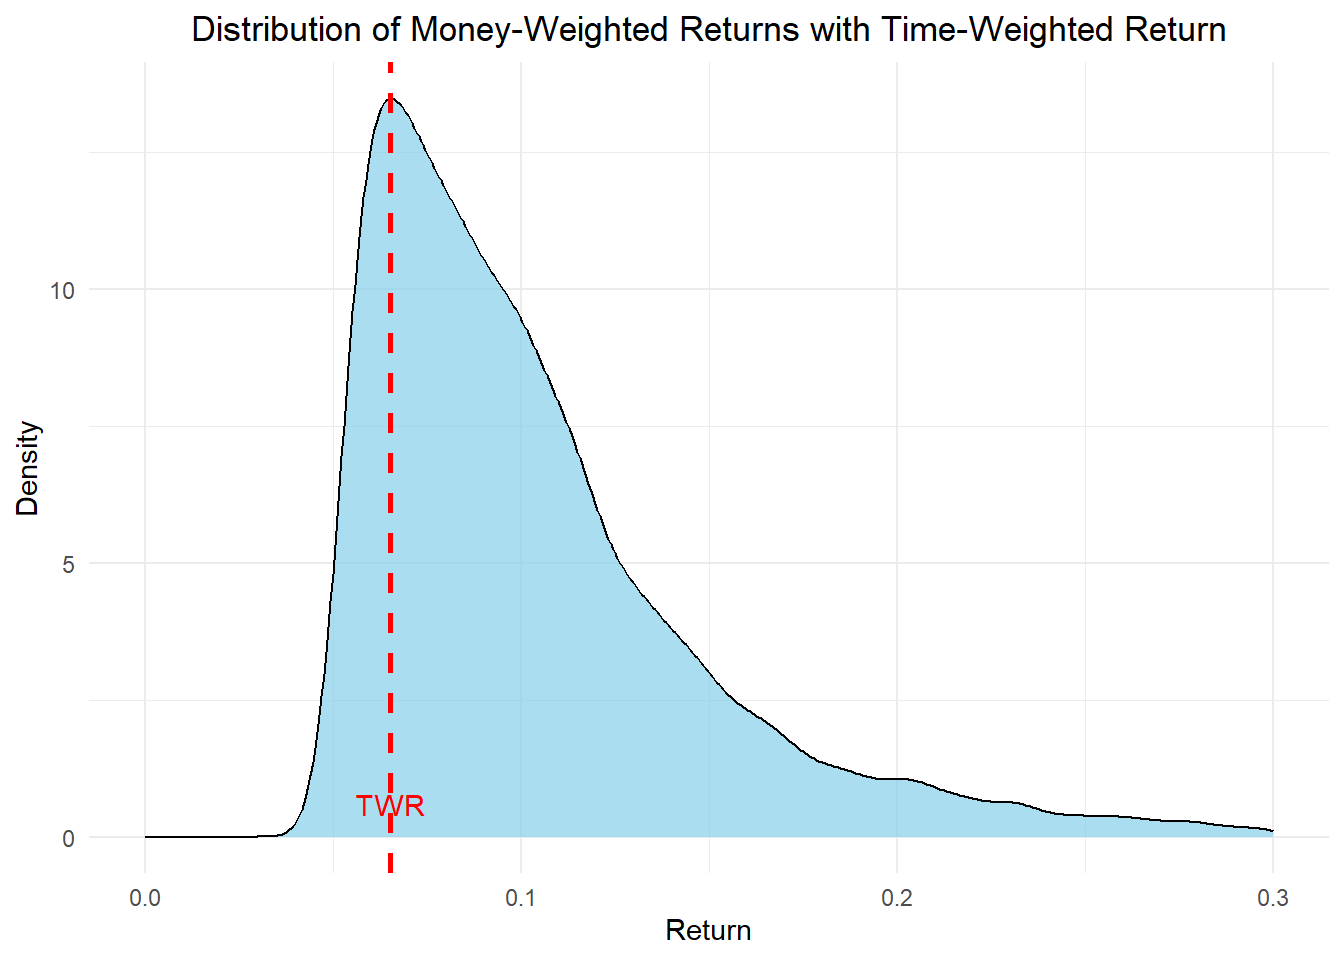
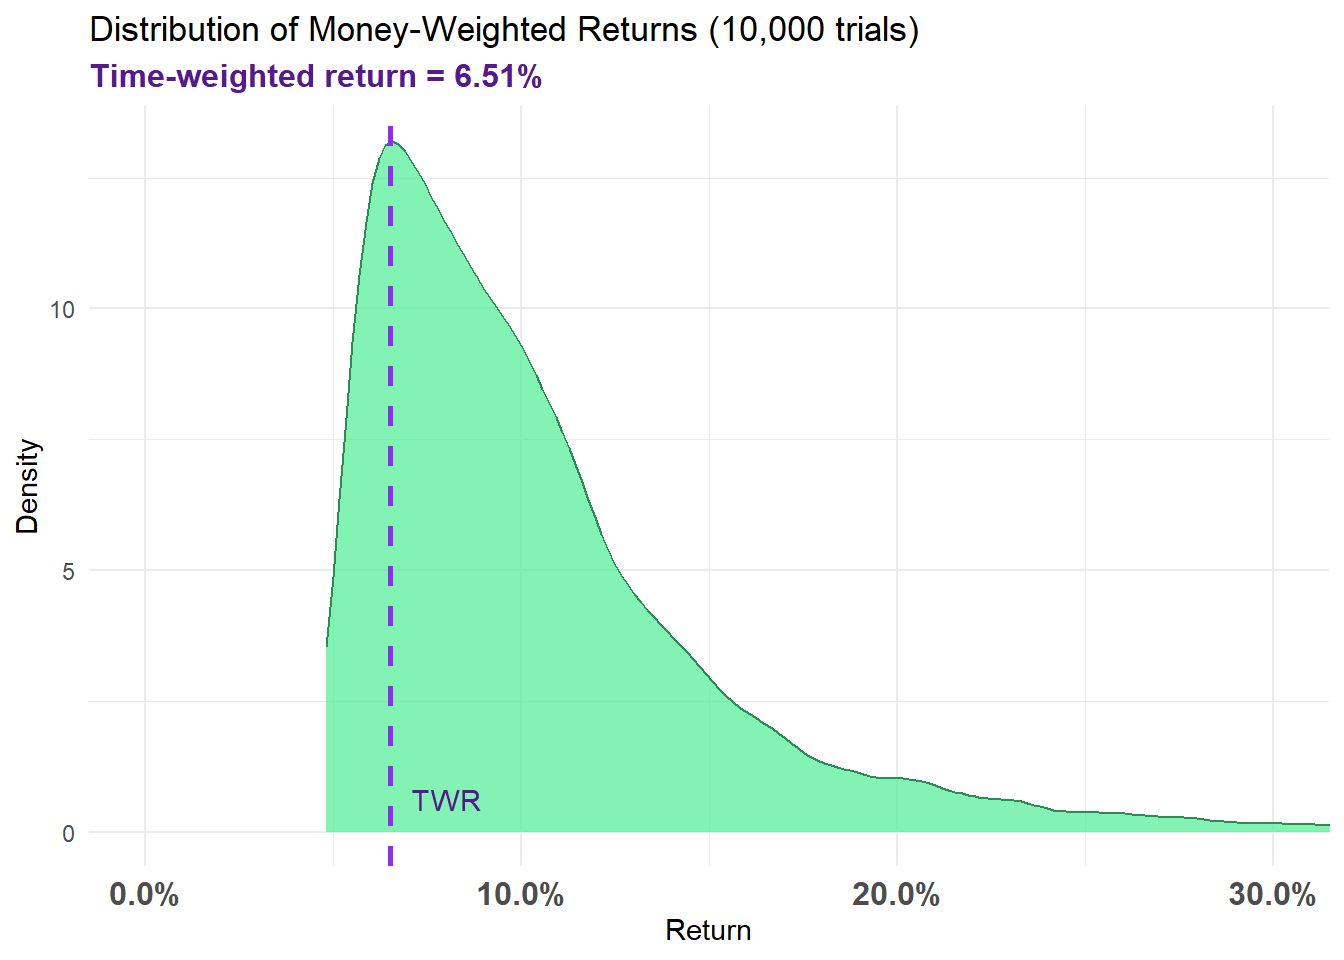
money weighted returns v2

diff --git a/_site/posts/money-weighted-returns/index.html b/_site/posts/money-weighted-returns/index.html
@@ -8,7 +8,7 @@
 
 <meta name="author" content="David Harper, CFA, FRM">
 <meta name="dcterms.date" content="2024-08-15">
-<meta name="description" content="Desc TBA">
+<meta name="description" content="MWR and TWR calculations for a stock investment scenario">
 
 <title>Money-weighted returns – finedtech by David Harper, CFA, FRM</title>
 <style>
@@ -153,7 +153,7 @@ pre > code.sourceCode > span > a:first-child::before { text-decoration: underlin
       <h1 class="title">Money-weighted returns</h1>
                   <div>
         <div class="description">
-          Desc TBA
+          MWR and TWR calculations for a stock investment scenario
         </div>
       </div>
                           <div class="quarto-categories">
@@ -195,7 +195,7 @@ pre > code.sourceCode > span > a:first-child::before { text-decoration: underlin
 
 
 
-<p>Claude 3.5 Sonnet wrote much of this</p>
+<p>Claude 3.5 Sonnet wrote much of this for me (the telltale sign is the loops), but it required many iterations.</p>
 <div class="cell">
 <div class="sourceCode cell-code" id="cb1"><pre class="sourceCode r code-with-copy"><code class="sourceCode r"><span id="cb1-1"><a href="#cb1-1" aria-hidden="true" tabindex="-1"></a><span class="fu">library</span>(tidyverse)</span>
 <span id="cb1-2"><a href="#cb1-2" aria-hidden="true" tabindex="-1"></a><span class="co"># library(FinancialMath)</span></span>
@@ -216,7 +216,7 @@ pre > code.sourceCode > span > a:first-child::before { text-decoration: underlin
 <span id="cb1-17"><a href="#cb1-17" aria-hidden="true" tabindex="-1"></a>stock_prices <span class="ot">&lt;-</span> <span class="fu">numeric</span>(years)</span>
 <span id="cb1-18"><a href="#cb1-18" aria-hidden="true" tabindex="-1"></a>stock_prices[<span class="dv">1</span>] <span class="ot">&lt;-</span> initial_price</span>
 <span id="cb1-19"><a href="#cb1-19" aria-hidden="true" tabindex="-1"></a><span class="cf">for</span> (i <span class="cf">in</span> <span class="dv">2</span><span class="sc">:</span>years) {</span>
-<span id="cb1-20"><a href="#cb1-20" aria-hidden="true" tabindex="-1"></a>  stock_prices[i] <span class="ot">&lt;-</span> stock_prices[i<span class="dv">-1</span>] <span class="sc">*</span> <span class="fu">exp</span>(<span class="fu">rnorm</span>(<span class="dv">1</span>, <span class="at">mean =</span> <span class="dv">0</span>, <span class="at">sd =</span> volatility))</span>
+<span id="cb1-20"><a href="#cb1-20" aria-hidden="true" tabindex="-1"></a>  stock_prices[i] <span class="ot">&lt;-</span> <span class="fu">round</span>(stock_prices[i<span class="dv">-1</span>] <span class="sc">*</span> <span class="fu">exp</span>(<span class="fu">rnorm</span>(<span class="dv">1</span>, <span class="at">mean =</span> <span class="dv">0</span>, <span class="at">sd =</span> volatility)),<span class="dv">2</span>)</span>
 <span id="cb1-21"><a href="#cb1-21" aria-hidden="true" tabindex="-1"></a>}</span>
 <span id="cb1-22"><a href="#cb1-22" aria-hidden="true" tabindex="-1"></a></span>
 <span id="cb1-23"><a href="#cb1-23" aria-hidden="true" tabindex="-1"></a><span class="co"># Calculate dividends</span></span>
@@ -320,23 +320,23 @@ Specific Scenario {25%, 33.3%, 50%, 100%, -100%}:</code></pre>
 </div>
 <div class="sourceCode cell-code" id="cb5"><pre class="sourceCode r code-with-copy"><code class="sourceCode r"><span id="cb5-1"><a href="#cb5-1" aria-hidden="true" tabindex="-1"></a><span class="fu">cat</span>(<span class="st">"Cash Flows:"</span>, specific_result<span class="sc">$</span>cash_flows, <span class="st">"</span><span class="sc">\n</span><span class="st">"</span>)</span></code><button title="Copy to Clipboard" class="code-copy-button"><i class="bi"></i></button></pre></div>
 <div class="cell-output cell-output-stdout">
-<pre><code>Cash Flows: -2500 -2641.667 -2831.028 -3165.981 13849.5 </code></pre>
+<pre><code>Cash Flows: -2500 -2641.667 -2831.026 -3165.971 13850.05 </code></pre>
 </div>
 <div class="sourceCode cell-code" id="cb7"><pre class="sourceCode r code-with-copy"><code class="sourceCode r"><span id="cb7-1"><a href="#cb7-1" aria-hidden="true" tabindex="-1"></a><span class="fu">cat</span>(<span class="st">"Cash Balance History:"</span>, specific_result<span class="sc">$</span>cash_balance_history, <span class="st">"</span><span class="sc">\n</span><span class="st">"</span>)</span></code><button title="Copy to Clipboard" class="code-copy-button"><i class="bi"></i></button></pre></div>
 <div class="cell-output cell-output-stdout">
-<pre><code>Cash Balance History: 10000 7925 5662.055 3165.981 265.9347 </code></pre>
+<pre><code>Cash Balance History: 10000 7925 5662.053 3165.971 265.9224 </code></pre>
 </div>
 <div class="sourceCode cell-code" id="cb9"><pre class="sourceCode r code-with-copy"><code class="sourceCode r"><span id="cb9-1"><a href="#cb9-1" aria-hidden="true" tabindex="-1"></a><span class="fu">cat</span>(<span class="st">"Final Shares:"</span>, specific_result<span class="sc">$</span>final_shares, <span class="st">"</span><span class="sc">\n</span><span class="st">"</span>)</span></code><button title="Copy to Clipboard" class="code-copy-button"><i class="bi"></i></button></pre></div>
 <div class="cell-output cell-output-stdout">
-<pre><code>Final Shares: 114.8622 </code></pre>
+<pre><code>Final Shares: 114.8569 </code></pre>
 </div>
 <div class="sourceCode cell-code" id="cb11"><pre class="sourceCode r code-with-copy"><code class="sourceCode r"><span id="cb11-1"><a href="#cb11-1" aria-hidden="true" tabindex="-1"></a><span class="fu">cat</span>(<span class="st">"MWR:"</span>, specific_mwr, <span class="st">"</span><span class="sc">\n</span><span class="st">"</span>)</span></code><button title="Copy to Clipboard" class="code-copy-button"><i class="bi"></i></button></pre></div>
 <div class="cell-output cell-output-stdout">
-<pre><code>MWR: 0.09267596 </code></pre>
+<pre><code>MWR: 0.09269345 </code></pre>
 </div>
 <div class="sourceCode cell-code" id="cb13"><pre class="sourceCode r code-with-copy"><code class="sourceCode r"><span id="cb13-1"><a href="#cb13-1" aria-hidden="true" tabindex="-1"></a><span class="fu">cat</span>(<span class="st">"TWR:"</span>, specific_twr, <span class="st">"</span><span class="sc">\n\n</span><span class="st">"</span>)</span></code><button title="Copy to Clipboard" class="code-copy-button"><i class="bi"></i></button></pre></div>
 <div class="cell-output cell-output-stdout">
-<pre><code>TWR: 0.06509625 </code></pre>
+<pre><code>TWR: 0.06511804 </code></pre>
 </div>
 <div class="sourceCode cell-code" id="cb15"><pre class="sourceCode r code-with-copy"><code class="sourceCode r"><span id="cb15-1"><a href="#cb15-1" aria-hidden="true" tabindex="-1"></a><span class="co"># Run simulations</span></span>
 <span id="cb15-2"><a href="#cb15-2" aria-hidden="true" tabindex="-1"></a><span class="cf">for</span> (sim <span class="cf">in</span> <span class="dv">1</span><span class="sc">:</span>n_simulations) {</span>
@@ -361,7 +361,7 @@ Specific Scenario {25%, 33.3%, 50%, 100%, -100%}:</code></pre>
 <span id="cb15-21"><a href="#cb15-21" aria-hidden="true" tabindex="-1"></a><span class="fu">cat</span>(<span class="st">"</span><span class="sc">\n</span><span class="st">Stock Prices:"</span>, stock_prices, <span class="st">"</span><span class="sc">\n</span><span class="st">"</span>)</span></code><button title="Copy to Clipboard" class="code-copy-button"><i class="bi"></i></button></pre></div>
 <div class="cell-output cell-output-stdout">
 <pre><code>
-Stock Prices: 100 89.39592 85.37383 116.6037 118.2597 </code></pre>
+Stock Prices: 100 89.4 85.38 116.61 118.27 </code></pre>
 </div>
 <div class="sourceCode cell-code" id="cb17"><pre class="sourceCode r code-with-copy"><code class="sourceCode r"><span id="cb17-1"><a href="#cb17-1" aria-hidden="true" tabindex="-1"></a><span class="fu">cat</span>(<span class="st">"Dividends:"</span>, dividends, <span class="st">"</span><span class="sc">\n</span><span class="st">"</span>)</span></code><button title="Copy to Clipboard" class="code-copy-button"><i class="bi"></i></button></pre></div>
 <div class="cell-output cell-output-stdout">
@@ -375,12 +375,12 @@ Money-Weighted Returns (MWR) Summary:</code></pre>
 <div class="sourceCode cell-code" id="cb21"><pre class="sourceCode r code-with-copy"><code class="sourceCode r"><span id="cb21-1"><a href="#cb21-1" aria-hidden="true" tabindex="-1"></a><span class="fu">print</span>(<span class="fu">summary</span>(mwr_results))</span></code><button title="Copy to Clipboard" class="code-copy-button"><i class="bi"></i></button></pre></div>
 <div class="cell-output cell-output-stdout">
 <pre><code>   Min. 1st Qu.  Median    Mean 3rd Qu.    Max. 
-0.04823 0.07062 0.09255 0.10792 0.12390 0.93866 </code></pre>
+0.04825 0.07064 0.09257 0.10793 0.12391 0.93867 </code></pre>
 </div>
 <div class="sourceCode cell-code" id="cb23"><pre class="sourceCode r code-with-copy"><code class="sourceCode r"><span id="cb23-1"><a href="#cb23-1" aria-hidden="true" tabindex="-1"></a><span class="fu">cat</span>(<span class="st">"</span><span class="sc">\n</span><span class="st">Time-Weighted Return (TWR):"</span>, twr, <span class="st">"</span><span class="sc">\n</span><span class="st">"</span>)</span></code><button title="Copy to Clipboard" class="code-copy-button"><i class="bi"></i></button></pre></div>
 <div class="cell-output cell-output-stdout">
 <pre><code>
-Time-Weighted Return (TWR): 0.06509625 </code></pre>
+Time-Weighted Return (TWR): 0.06511804 </code></pre>
 </div>
 <div class="sourceCode cell-code" id="cb25"><pre class="sourceCode r code-with-copy"><code class="sourceCode r"><span id="cb25-1"><a href="#cb25-1" aria-hidden="true" tabindex="-1"></a><span class="fu">cat</span>(<span class="st">"Number of failed IRR calculations:"</span>, failed_irr_count, <span class="st">"</span><span class="sc">\n</span><span class="st">"</span>)</span></code><button title="Copy to Clipboard" class="code-copy-button"><i class="bi"></i></button></pre></div>
 <div class="cell-output cell-output-stdout">
@@ -389,16 +389,19 @@ Time-Weighted Return (TWR): 0.06509625 </code></pre>
 <div class="sourceCode cell-code" id="cb27"><pre class="sourceCode r code-with-copy"><code class="sourceCode r"><span id="cb27-1"><a href="#cb27-1" aria-hidden="true" tabindex="-1"></a><span class="co"># Plot</span></span>
 <span id="cb27-2"><a href="#cb27-2" aria-hidden="true" tabindex="-1"></a>mwr_df <span class="ot">&lt;-</span> <span class="fu">data.frame</span>(<span class="at">MWR =</span> mwr_results)</span>
 <span id="cb27-3"><a href="#cb27-3" aria-hidden="true" tabindex="-1"></a>p <span class="ot">&lt;-</span> <span class="fu">ggplot</span>(mwr_df, <span class="fu">aes</span>(<span class="at">x =</span> MWR)) <span class="sc">+</span></span>
-<span id="cb27-4"><a href="#cb27-4" aria-hidden="true" tabindex="-1"></a>    <span class="fu">geom_density</span>(<span class="at">fill =</span> <span class="st">"skyblue"</span>, <span class="at">alpha =</span> <span class="fl">0.7</span>) <span class="sc">+</span></span>
-<span id="cb27-5"><a href="#cb27-5" aria-hidden="true" tabindex="-1"></a>    <span class="fu">geom_vline</span>(<span class="fu">aes</span>(<span class="at">xintercept =</span> twr), <span class="at">color =</span> <span class="st">"red"</span>, <span class="at">linetype =</span> <span class="st">"dashed"</span>, <span class="at">size =</span> <span class="dv">1</span>) <span class="sc">+</span></span>
+<span id="cb27-4"><a href="#cb27-4" aria-hidden="true" tabindex="-1"></a>    <span class="fu">geom_density</span>(<span class="at">fill =</span> <span class="st">"seagreen2"</span>, <span class="at">color =</span> <span class="st">"seagreen4"</span>, <span class="at">alpha =</span> <span class="fl">0.7</span>) <span class="sc">+</span></span>
+<span id="cb27-5"><a href="#cb27-5" aria-hidden="true" tabindex="-1"></a>    <span class="fu">geom_vline</span>(<span class="fu">aes</span>(<span class="at">xintercept =</span> twr), <span class="at">color =</span> <span class="st">"purple2"</span>, <span class="at">linetype =</span> <span class="st">"dashed"</span>, <span class="at">size =</span> <span class="dv">1</span>) <span class="sc">+</span></span>
 <span id="cb27-6"><a href="#cb27-6" aria-hidden="true" tabindex="-1"></a>    <span class="fu">theme_minimal</span>() <span class="sc">+</span></span>
-<span id="cb27-7"><a href="#cb27-7" aria-hidden="true" tabindex="-1"></a>    <span class="fu">labs</span>(<span class="at">title =</span> <span class="st">"Distribution of Money-Weighted Returns with Time-Weighted Return"</span>,</span>
-<span id="cb27-8"><a href="#cb27-8" aria-hidden="true" tabindex="-1"></a>         <span class="at">x =</span> <span class="st">"Return"</span>,</span>
-<span id="cb27-9"><a href="#cb27-9" aria-hidden="true" tabindex="-1"></a>         <span class="at">y =</span> <span class="st">"Density"</span>) <span class="sc">+</span></span>
-<span id="cb27-10"><a href="#cb27-10" aria-hidden="true" tabindex="-1"></a>    <span class="fu">theme</span>(<span class="at">plot.title =</span> <span class="fu">element_text</span>(<span class="at">hjust =</span> <span class="fl">0.5</span>)) <span class="sc">+</span></span>
-<span id="cb27-11"><a href="#cb27-11" aria-hidden="true" tabindex="-1"></a>    <span class="fu">annotate</span>(<span class="st">"text"</span>, <span class="at">x =</span> twr, <span class="at">y =</span> <span class="dv">0</span>, <span class="at">label =</span> <span class="st">"TWR"</span>, <span class="at">vjust =</span> <span class="sc">-</span><span class="dv">1</span>, <span class="at">color =</span> <span class="st">"red"</span>) <span class="sc">+</span></span>
-<span id="cb27-12"><a href="#cb27-12" aria-hidden="true" tabindex="-1"></a>    <span class="fu">xlim</span>(<span class="dv">0</span>, <span class="fl">0.3</span>)</span>
-<span id="cb27-13"><a href="#cb27-13" aria-hidden="true" tabindex="-1"></a><span class="fu">print</span>(p)</span></code><button title="Copy to Clipboard" class="code-copy-button"><i class="bi"></i></button></pre></div>
+<span id="cb27-7"><a href="#cb27-7" aria-hidden="true" tabindex="-1"></a>    <span class="fu">labs</span>(<span class="at">title =</span> <span class="st">"Distribution of Money-Weighted Returns (10,000 trials)"</span>,</span>
+<span id="cb27-8"><a href="#cb27-8" aria-hidden="true" tabindex="-1"></a>         <span class="at">subtitle =</span> <span class="st">"Time-weighted return = 6.51%"</span>,</span>
+<span id="cb27-9"><a href="#cb27-9" aria-hidden="true" tabindex="-1"></a>         <span class="at">x =</span> <span class="st">"Return"</span>,</span>
+<span id="cb27-10"><a href="#cb27-10" aria-hidden="true" tabindex="-1"></a>         <span class="at">y =</span> <span class="st">"Density"</span>) <span class="sc">+</span></span>
+<span id="cb27-11"><a href="#cb27-11" aria-hidden="true" tabindex="-1"></a>    <span class="fu">theme</span>(<span class="at">axis.text.x =</span> <span class="fu">element_text</span>(<span class="at">size =</span> <span class="dv">12</span>, <span class="at">face =</span> <span class="st">"bold"</span>),</span>
+<span id="cb27-12"><a href="#cb27-12" aria-hidden="true" tabindex="-1"></a>          <span class="at">plot.subtitle =</span> <span class="fu">element_text</span>(<span class="at">size =</span> <span class="dv">12</span>, <span class="at">color =</span> <span class="st">"purple4"</span>, <span class="at">face =</span> <span class="st">"bold"</span>)) <span class="sc">+</span></span>
+<span id="cb27-13"><a href="#cb27-13" aria-hidden="true" tabindex="-1"></a>    <span class="fu">annotate</span>(<span class="st">"text"</span>, <span class="at">x =</span> twr, <span class="at">y =</span> <span class="dv">0</span>, <span class="at">label =</span> <span class="st">"TWR"</span>, <span class="at">vjust =</span> <span class="sc">-</span><span class="dv">1</span>, <span class="at">hjust =</span> <span class="sc">-</span><span class="fl">0.3</span>, <span class="at">color =</span> <span class="st">"purple4"</span>) <span class="sc">+</span></span>
+<span id="cb27-14"><a href="#cb27-14" aria-hidden="true" tabindex="-1"></a>    <span class="fu">scale_x_continuous</span>(<span class="at">labels =</span> scales<span class="sc">::</span><span class="fu">percent_format</span>(<span class="at">accuracy =</span> <span class="fl">0.1</span>)) <span class="sc">+</span></span>
+<span id="cb27-15"><a href="#cb27-15" aria-hidden="true" tabindex="-1"></a>    <span class="fu">coord_cartesian</span>(<span class="at">xlim =</span> <span class="fu">c</span>(<span class="dv">0</span>, <span class="fl">0.3</span>))</span>
+<span id="cb27-16"><a href="#cb27-16" aria-hidden="true" tabindex="-1"></a><span class="fu">print</span>(p)</span></code><button title="Copy to Clipboard" class="code-copy-button"><i class="bi"></i></button></pre></div>
 <div class="cell-output-display">
 <div>
 <figure class="figure">

diff --git a/_site/index.html b/_site/index.html
@@ -205,7 +205,7 @@ window.Quarto = {
 
 <div class="quarto-listing quarto-listing-container-default" id="listing-listing">
 <div class="list quarto-listing-default">
-<div class="quarto-post image-right" data-index="0" data-categories="code,analysis" data-listing-date-sort="1723705200000" data-listing-file-modified-sort="1723746024233" data-listing-date-modified-sort="NaN" data-listing-reading-time-sort="4" data-listing-word-count-sort="755">
+<div class="quarto-post image-right" data-index="0" data-categories="code,analysis" data-listing-date-sort="1723705200000" data-listing-file-modified-sort="1723768535210" data-listing-date-modified-sort="NaN" data-listing-reading-time-sort="5" data-listing-word-count-sort="821">
 <div class="thumbnail">
 <p><a href="./posts/money-weighted-returns/index.html" class="no-external"></a></p><a href="./posts/money-weighted-returns/index.html" class="no-external">
 <p class="card-img-top"><img src="posts\money-weighted-returns\index_files\figure-html\unnamed-chunk-1-1.png"  class="thumbnail-image card-img"/></p>
@@ -227,7 +227,7 @@ analysis
 </div>
 </div>
 <div class="listing-description">
-<a href="./posts/money-weighted-returns/index.html" class="no-external">Desc TBA</a>
+<a href="./posts/money-weighted-returns/index.html" class="no-external">MWR and TWR calculations for a stock investment scenario</a>
 </div>
 </div>
 <div class="metadata">
